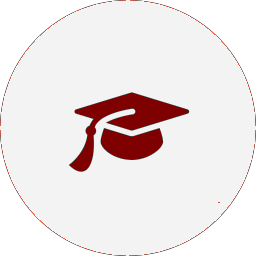
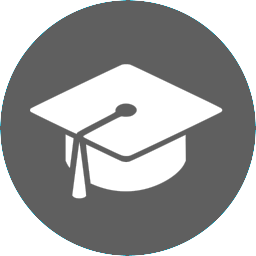
open source

diff --git a/projects/02.html b/projects/02.html
@@ -29,7 +29,7 @@
 
           <div class="panel panel-default">
             <a href="/projects/school-system">
-              <div class="panel-heading topic-bg" style="background-color:#F3F3F3;">
+              <div class="panel-heading topic-bg" style="background-color:#5F5F5F;">
                 <p class="panel-title">
                   <img class="img-responsive" src="img/projects/school-system.png">
                 </p>
@@ -90,6 +90,31 @@
             <div class="panel-body">
               <p class="topic-color">PROJECT</p>
               <a href="/projects/open-cart" class="title topic-title bold-text">E-Commerce</a>
+              <p class="desc topic-desc">E-Commerce online store solution for professional and reliable foundations.</p>
+
+
+
+            </div>
+          </div>
+        </div>
+      </div>
+
+      <div class="col-md-4 col-sm-6 col-xs-12 topic-tile">
+        <div class="fade-in-animation-0">
+
+          <div class="panel panel-default">
+            <a href="/projects/open-cart">
+              <div class="panel-heading topic-bg" style="background-color:#34C3EF;">
+                <p class="panel-title">
+                  <img class="img-responsive" src="img/projects/open-cart.png">
+                </p>
+
+
+              </div>
+            </a>
+            <div class="panel-body">
+              <p class="topic-color">PROJECT</p>
+              <a href="/projects/open-cart" class="title topic-title bold-text">Adempiere</a>
               <p class="desc topic-desc">E-Commerce online store solution for professional and reliable foundations.</p>
 
 

diff --git a/projects/01.html b/projects/01.html
@@ -64,7 +64,7 @@
             <div class="panel-body">
               <p class="topic-color">PROJECT</p>
               <a href="/projects/visiting-cards" class="title topic-title bold-text">Business Cards</a>
-              <p class="desc topic-desc">We create your Business Card design online for your business or project.</p>
+              <p class="desc topic-desc">We create your business card design online for your businesses.</p>
 
             </div>
           </div>
